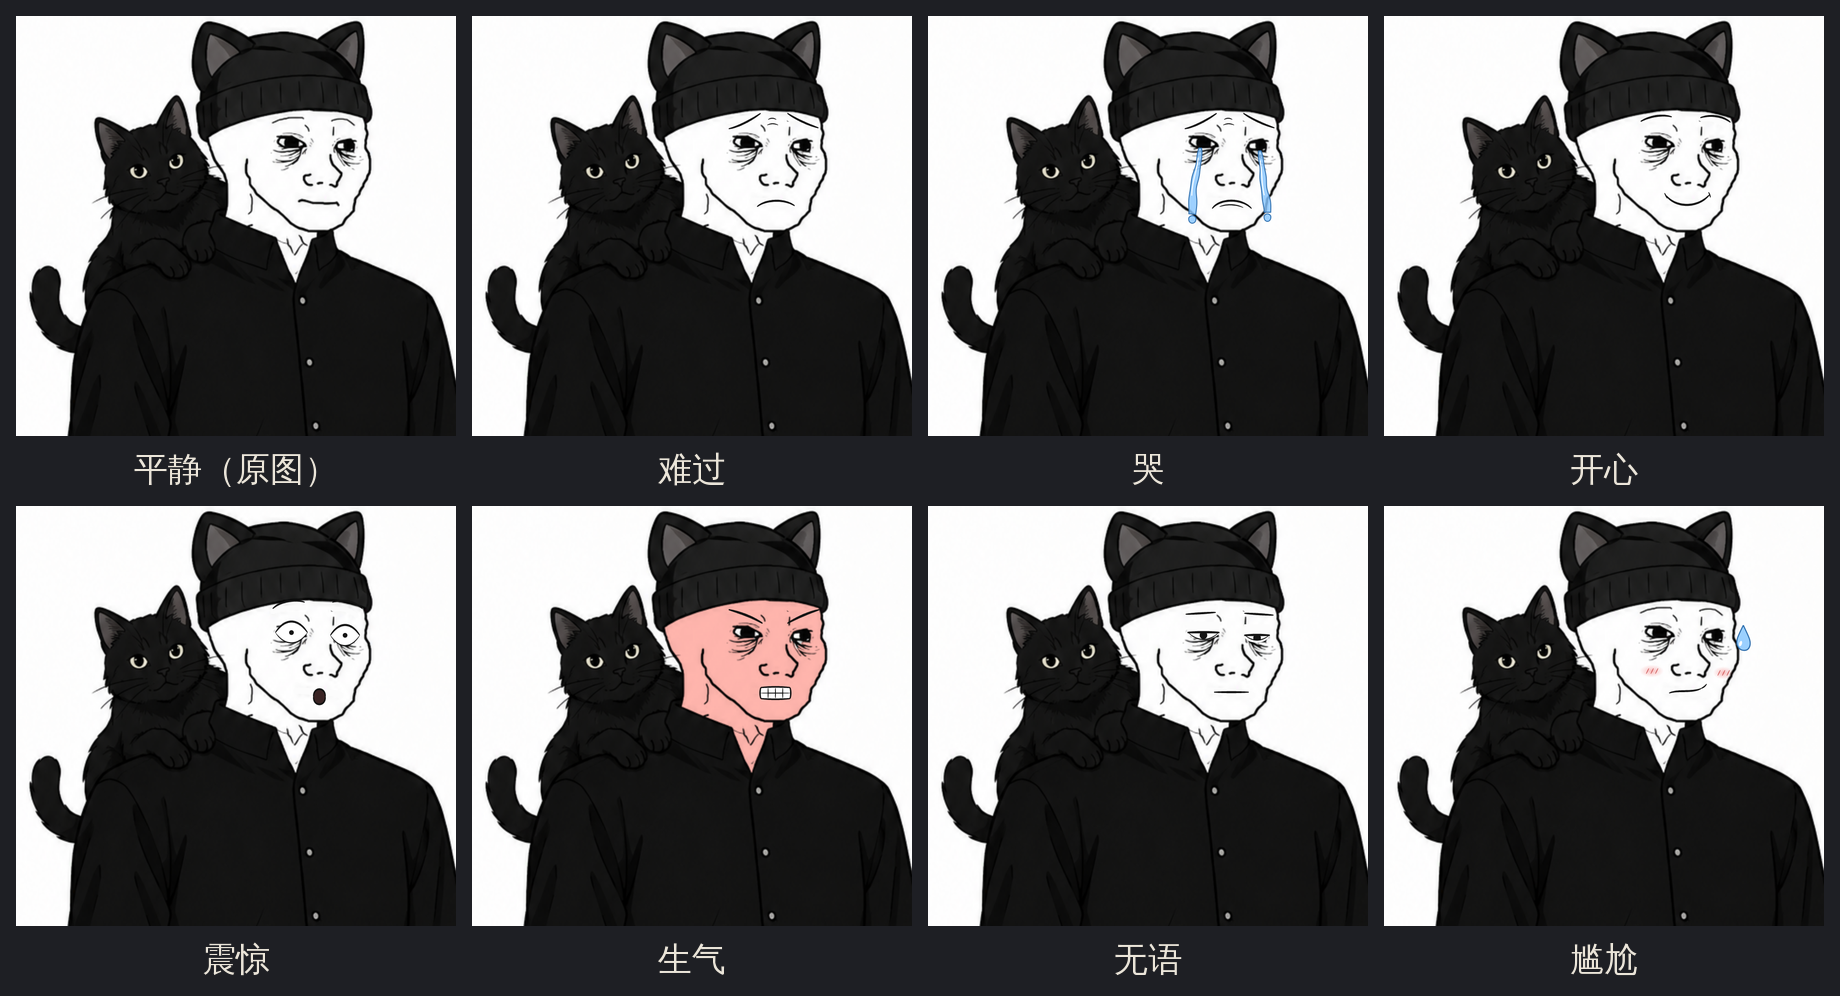
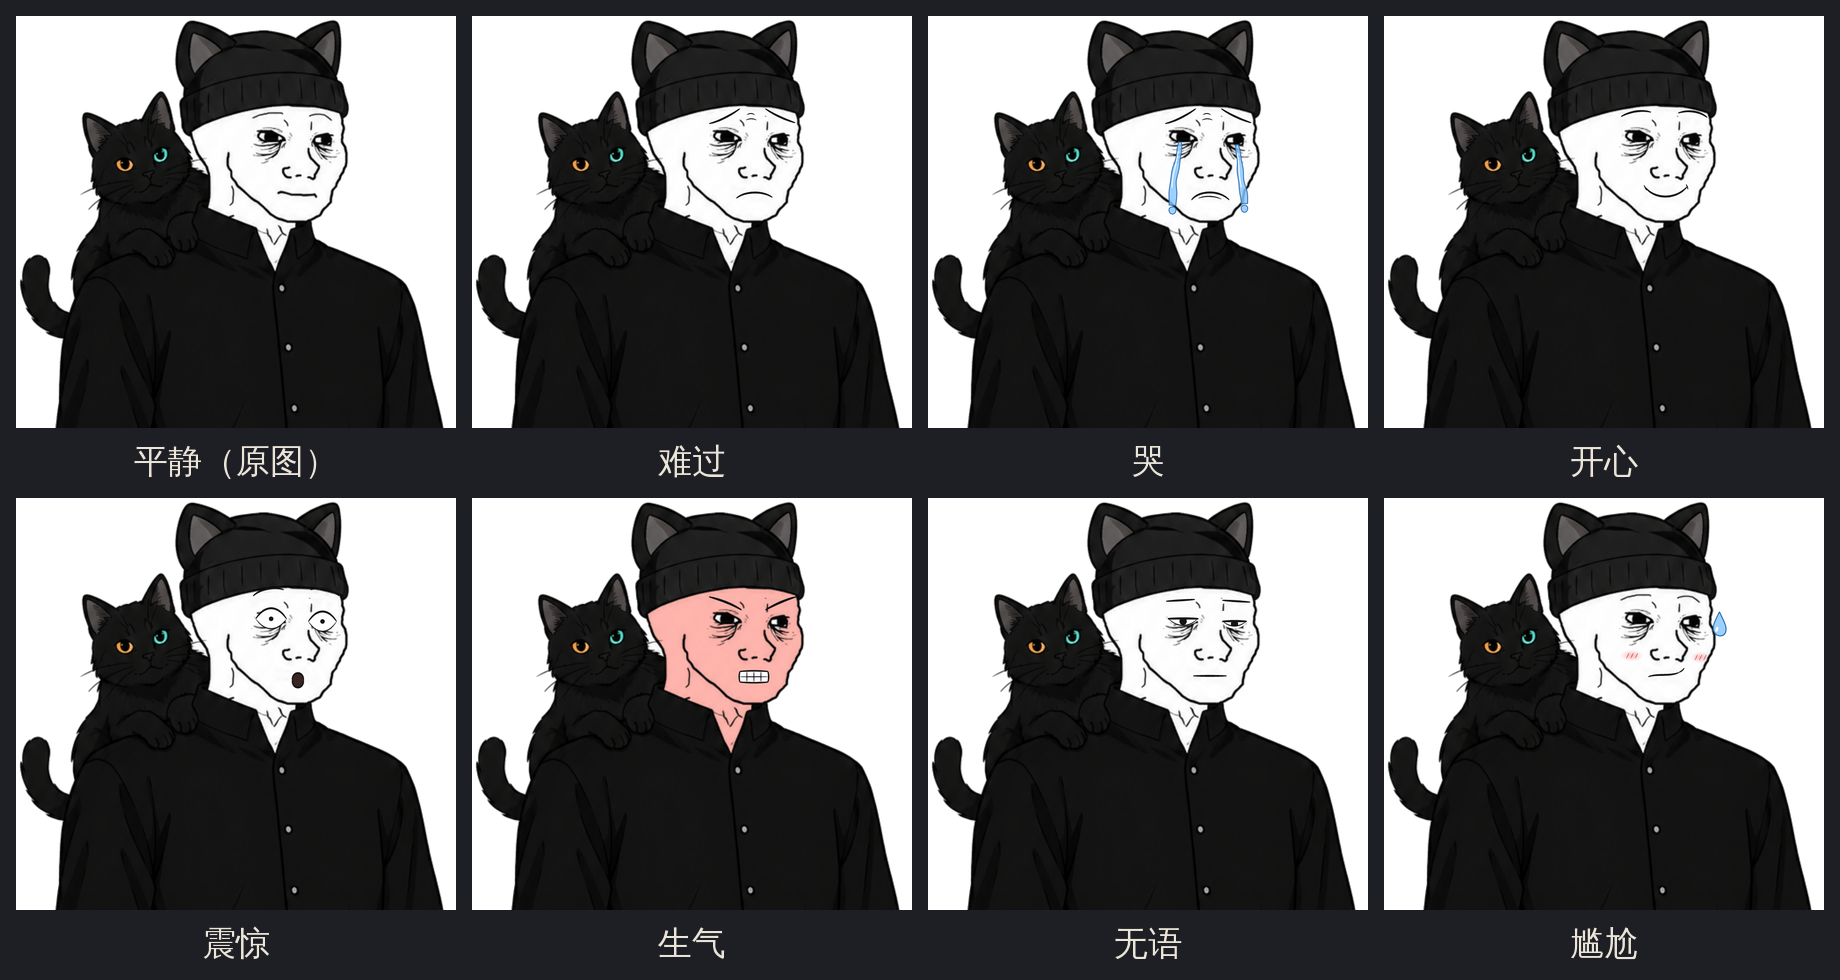
Wojak cast: the channel owner's 18 characters, brand cat eyes on the protagonist
- characters/cast: 12 office coworkers and 6 young men cut out of the two
  character sheets the channel owner sent (sources kept in cast/sources)
- tools/wojak/cut_sheet.py: cut each character from its grid cell, with a
  wall along the panel bottom so white hands and shirts are not eaten as
  background, and --bottom-only to drop the written labels
- characters/hero/base.png: the protagonist with the cat's eyes recoloured
  orange (screen left) and teal (screen right); all 8 expressions redone
  on it (tools/wojak/cat_eyes.py)
- removed the AI-generated candidates; the channel owner wants only the
  characters they provide, and the protagonist keeps his outfit

Claude-Session: https://claude.ai/code/session_01RCzNpWq88pKqMjsJAgojmc

diff --git a/tools/wojak/expressions.html b/tools/wojak/expressions.html
@@ -1,5 +1,5 @@
 <!doctype html><html><head><meta charset="utf-8"></head><body style="margin:0">
-<!-- 主人公的表情：在原图 characters/hero/ref.png 上擦掉眉毛、眼睛、嘴，再画新的。
+<!-- 主人公的表情：在底图 characters/hero/base.png（原图 ref.png 换了猫眼颜色）上擦掉眉毛、眼睛、嘴，再画新的。
      下面的坐标都是逐像素量过的原图位置（1024×1536），只对这张原图有效。用 make_expressions.cjs 出图。 -->
 <canvas id="c"></canvas>
 <script>

diff --git a/tools/wojak/cut_sheet.py b/tools/wojak/cut_sheet.py
@@ -1,0 +1,77 @@
+"""从一张多人设定图里把每个角色抠出来（透明底 PNG）。
+
+    python3 -I cut_sheet.py <设定图.png> <输出目录> [--bottom-only] <名字:x0:x1:y0:y1> ... [wall:x0:y0:x1:y1 ...]
+
+每个角色是一块被切平了底边的半身像，x0–x1、y0–y1 是它所在的格子。
+- 背景：从图的四边往里找连着的、颜色跟背景差不多的像素。
+- 每块的底边（和左右被切平的边）先“砌墙”，免得浅色衣服顺着切口被当成背景。
+- 字和小碎块按面积去掉；--bottom-only 时只留碰到底边的部分（设定图上写了字的用这个）。
+"""
+import sys, os
+import numpy as np
+from PIL import Image
+from scipy import ndimage
+
+src, out = sys.argv[1], sys.argv[2]
+args = sys.argv[3:]; BOTTOM_ONLY = '--bottom-only' in args; args = [a for a in args if a != '--bottom-only']
+panels = [(q[0], *map(int, q[1:])) for q in (p.split(':') for p in args) if q[0] != 'wall']
+extra = [tuple(map(int, q[1:])) for q in (p.split(':') for p in args) if q[0] == 'wall']   # wall:x0:y0:x1:y1 手动砌的墙（一条线段）
+os.makedirs(out, exist_ok=True)
+im = np.asarray(Image.open(src).convert('RGB')).astype(np.float32)
+H, W, _ = im.shape
+border = np.concatenate([im[:4].reshape(-1, 3), im[-4:].reshape(-1, 3), im[:, :4].reshape(-1, 3), im[:, -4:].reshape(-1, 3)])
+BG = np.median(border, axis=0); print('背景色', BG)
+close = np.abs(im - BG).max(2) <= 6                         # 背景很均匀；放宽了浅色衣服、白皮肤会被当成背景
+
+def flood(cand):
+    lab, _ = ndimage.label(cand)
+    edge = np.unique(np.concatenate([lab[0], lab[-1], lab[:, 0], lab[:, -1]])); edge = edge[edge > 0]
+    return np.isin(lab, edge)
+
+bg0 = flood(close)
+lab0, n0 = ndimage.label(~bg0, structure=np.ones((3, 3)))
+size0 = ndimage.sum(~bg0, lab0, range(1, n0 + 1))
+big0 = np.isin(lab0, [i + 1 for i, s in enumerate(size0) if s > 1500])
+# 墙：每块底边一条 8 行宽的带子（底边常有一道浅色细线，背景会顺着它横着流进白色的手、衬衫）；左右被切平的边也砌上
+cand = close.copy(); walls = np.zeros_like(close)
+info = []
+for name, x0, x1, gy0, gy1 in panels:
+    m = big0[gy0:gy1, x0:x1]; ys = np.nonzero(m.any(1))[0]; yb = ys.max() + gy0
+    cols = np.nonzero(m[yb - gy0 - 3:yb - gy0 + 1].any(0))[0] + x0; xa, xb = cols.min(), cols.max()
+    walls[yb - 5:yb + 3, xa - 2:xb + 3] = True
+    for xe in (xa, xb):                                       # 竖直切边：从底往上，这一列一直有图的那一段
+        y = yb
+        while y > gy0 and big0[y, xe]: y -= 1
+        if yb - y > 20: walls[y:yb + 1, max(0, xe - 2 if xe == xa else xe + 1):xe + (0 if xe == xa else 3)] = True
+    info.append((name, x0, x1, gy0, yb))
+for x0_, y0_, x1_, y1_ in extra:
+    for t in np.linspace(0, 1, 2 * max(abs(x1_ - x0_), abs(y1_ - y0_)) + 1):
+        x, y = int(round(x0_ + (x1_ - x0_) * t)), int(round(y0_ + (y1_ - y0_) * t)); walls[y - 1:y + 2, x - 1:x + 2] = True
+cand &= ~walls
+bg = flood(cand)
+# 墙本身：颜色像背景、旁边又是背景的，也算背景（不留一道细线）
+nb = ndimage.binary_dilation(bg) & walls & close
+bg |= nb
+fg = ~bg
+lab, n = ndimage.label(fg, structure=np.ones((3, 3)))
+sizes = ndimage.sum(fg, lab, range(1, n + 1))
+keep = np.isin(lab, [i + 1 for i, s in enumerate(sizes) if s > 1500])
+lum = im.min(2); bgl = BG.min()
+for name, x0, x1, gy0, yb in info:
+    yb -= 6                                                   # 底边那条墙带子整个切掉
+    k = keep[gy0:yb + 1, x0:x1]
+    if BOTTOM_ONLY:                                           # 只留碰到底边的（去掉写在旁边的字）
+        lb, _ = ndimage.label(k, structure=np.ones((3, 3))); k = np.isin(lb, np.unique(lb[-3:])[1:])
+    ys, xs = np.nonzero(k); ya, yz, xa_, xb_ = max(0, ys.min() - 4), yb + 1 - gy0, max(0, xs.min() - 4), min(x1 - x0, xs.max() + 5)
+    sl = (slice(gy0 + ya, gy0 + yz), slice(x0 + xa_, x0 + xb_))
+    sub, kk, bgs, l = im[sl], k[ya:yz, xa_:xb_], bg[sl], lum[sl]
+    # 边缘一圈（挨着背景的）：按“墨 + 背景色”的混合反推不透明度
+    edge = kk & ndimage.binary_dilation(bgs & ~kk, iterations=2)
+    alpha = kk.astype(np.float32)
+    alpha[edge] = np.clip((bgl - l[edge]) / (bgl - 70), 0, 1)
+    rgb = sub.copy()
+    with np.errstate(divide='ignore', invalid='ignore'):
+        un = (sub - (1 - alpha[..., None]) * BG) / np.maximum(alpha[..., None], 1e-3)
+    rgb[edge] = np.clip(un[edge], 0, 255); rgb[alpha == 0] = 0
+    Image.fromarray(np.dstack([rgb, alpha * 255]).astype(np.uint8), 'RGBA').save(os.path.join(out, name + '.png'))
+    print(name, '格子', x0, x1, gy0, '底边', yb, '大小', rgb.shape[1], 'x', rgb.shape[0])

diff --git a/tools/wojak/cat_eyes.py b/tools/wojak/cat_eyes.py
@@ -1,0 +1,27 @@
+"""把主人公肩上那只猫的眼睛换成品牌色：画面左边那只橙、右边那只青（跟以前的小黑一样）。
+
+    python3 -I tools/wojak/cat_eyes.py characters/hero/ref.png characters/hero/base.png
+
+原图的猫眼是米白色的一圈（中间是黑瞳孔，有一点白高光）。按亮度上色：米白的地方变成品牌色，
+最亮的高光还是白的，黑瞳孔不变。眼睛的位置是在原图上量的（1024×1536）。
+"""
+import sys
+import numpy as np
+from PIL import Image
+
+ORANGE, TEAL = np.array([242, 161, 74]), np.array([79, 214, 196])
+EYES = [((353.5, 190.5), (11, 8), ORANGE), ((394, 178.5), (9.5, 10), TEAL)]   # 中心、半径（多留 1.5 像素）、颜色
+im = np.asarray(Image.open(sys.argv[1]).convert('RGB')).astype(np.float32)
+H, W, _ = im.shape
+yy, xx = np.mgrid[0:H, 0:W]
+L = im.mean(2)
+out = im.copy()
+for (cx, cy), (rx, ry), col in EYES:
+    m = ((xx - cx) / rx) ** 2 + ((yy - cy) / ry) ** 2 <= 1
+    t = np.clip(L / 205, 0, 1)[..., None]                       # 米白（约 200）→ 满色；暗的边按比例
+    c = col * t
+    w = np.clip((L - 228) / 25, 0, 1)[..., None]                # 高光（比米白更亮的）留白
+    c = c * (1 - w) + 255 * w
+    out[m] = c[m]
+Image.fromarray(np.clip(out, 0, 255).astype(np.uint8)).save(sys.argv[2])
+print('写好了', sys.argv[2])

diff --git a/characters/README.md b/characters/README.md
@@ -1,8 +1,15 @@
 # 角色素材（Wojak 格式，No.51 起）
 
+角色都用频道主给的图，不用自己生成的形象。
+
 ## 主人公 `hero/`
-- `ref.png`：频道主给的原图（1024×1536，白底）。他戴黑色毛线猫耳帽，一只黑猫趴在右肩（画面左边），穿黑衬衫、黑阔腿裤。
+- `ref.png`：频道主给的原图（1024×1536，白底）。
+  - 他戴黑色毛线猫耳帽，穿黑衬衫、黑阔腿裤。一只黑猫趴在他右肩（画面左边）。
+  - **衣服不换**，一直穿这一身。
+- `base.png`：原图只换了猫眼颜色，画面左边那只眼睛橙、右边那只青，跟以前的品牌黑猫小黑一样。
+  - 用 `tools/wojak/cat_eyes.py` 做，表情都在这张上改。
 - `expr/*.png`：8 个表情，透明底，原图的 2 倍大（2048×3072 抠图后裁成 1002×2992）。
+  - 都是在 base.png 上改眉毛、眼睛、嘴做出来的，保证一直是同一个人。
 
   | 文件 | 表情 | 改了什么 |
   |---|---|---|
@@ -16,28 +23,62 @@
   | `awkward` | 尴尬 | 脸红，太阳穴挂一滴汗，嘴角歪着笑 |
 - `表情一览.png`：8 个表情排在一起。
 
-**怎么做的**：在原图上把眉毛、眼睛、嘴擦掉（用脸的底色 `#fcfcfc`），再画上新的。
-- 线条两头细、中间粗，跟原图的墨线一样。
-- 原图五官的坐标是逐像素量出来的，写在 `tools/wojak/expressions.html` 里，只对这张原图有效。
-- 最后用 `tools/wojak/cutout.py` 抠掉白底：从画面四边往里找连着的白色当背景，所以脸、脖子这些被线围住的白色不会被抠掉。
+**怎么做的**
+1. 在底图上把眉毛、眼睛、嘴擦掉（用脸的底色 `#fcfcfc`），再画上新的。线条两头细、中间粗，跟原图的墨线一样。
+2. 原图五官的坐标是逐像素量出来的，写在 `tools/wojak/expressions.html` 里，只对这张原图有效。
+3. 用 `tools/wojak/cutout.py` 抠掉白底：从画面四边往里找连着的白色当背景，所以脸、脖子这些被线围住的白色不会被抠掉。
 
 ```
-NODE_PATH=$(npm root -g) node tools/wojak/make_expressions.cjs characters/hero/ref.png characters/hero/expr          # 全部
-NODE_PATH=$(npm root -g) node tools/wojak/make_expressions.cjs characters/hero/ref.png characters/hero/expr cry      # 只出一个
+python3 -I tools/wojak/cat_eyes.py characters/hero/ref.png characters/hero/base.png
+NODE_PATH=$(npm root -g) node tools/wojak/make_expressions.cjs characters/hero/base.png characters/hero/expr          # 全部表情
+NODE_PATH=$(npm root -g) node tools/wojak/make_expressions.cjs characters/hero/base.png characters/hero/expr cry      # 只出一个
 ```
 
-## 其他角色 `candidates/`（候选，频道主还没选）
-用 `tools/wojak/gen_images.py` 生成（MiniMax image-01），把主人公原图当角色参考，提示词里写清楚经典 Wojak 的脸（眼袋皱纹、细墨线）。
-- 1 同事（橙卫衣）、2 老板 A（光头眼镜）、3 老板 B（戴帽子）、4–6 女生 A/B/C。
-- 7–10 是主人公换装：AI 换装时脸和帽子会有点走样，所以主人公平时穿原图那一身。
-- `一览.png`：这 10 张排在一起。
+## 其他角色 `cast/`
+从频道主给的两张设定图（`cast/sources/`）里一个个抠出来的半身像，透明底，底边是平的，放的时候贴着画框底边。
 
-选定以后：
-1. 用 `python3 -I tools/wojak/cutout.py <图> <输出.png>` 抠图，放进 `characters/<角色名>/`。
-2. 表情也照主人公的办法改，坐标要重新量。
+| 文件 | 设定（设定图上写的） |
+|---|---|
+| `女同事-行政` | 说话温柔，喜欢八卦，经常找你帮忙 |
+| `女同事-技术` | 高冷，不爱说话，但其实很靠谱 |
+| `女同事-运营` | 开朗活泼，喜欢自拍，经常带奶茶 |
+| `领导-上司` | 有点油腻，爱吹牛，只会开会 |
+| `同事-老哥` | 玩游戏很厉害，话多，但人不错 |
+| `女同事-设计` | 有点文艺，喜欢拍照，审美很好 |
+| `上级-主管` | 比较严厉，事多，但也会帮忙 |
+| `同事-实习生` | 年轻，懂点技术，还挺努力 |
+| `女同事-财务` | 认真负责，不太爱说话，但很细心 |
+| `同事-技术大佬` | 很少说话，但技术很牛，话少的可怕 |
+| `女同事-市场` | 甜美系，喜欢聊天，有点小作 |
+| `大领导` | 更油腻，只会指挥，很少出现 |
+| `卫衣帽子男`、`军人`、`灰发男`、`蓝卫衣男`、`眼镜男`、`背心男` | 第二张图，没写设定，可以当朋友、路人、室友 |
+
+- `一览.png`：18 个人排在一起。
+- **原图不大**：第一张图每人约 300 像素宽，第二张约 400 像素宽。放大到半个画面时会有点虚。频道主如果有更大的原图，换上重新抠就行。
+- 设计、市场两个人的头发外面有一圈白边，是原画自带的，留着了。
+
+**抠图**：用 `tools/wojak/cut_sheet.py`。
+- 每个角色给出它所在的格子。
+- 底边会砌一道 8 行宽的“墙”再切掉：格子底边常有一道浅色细线，不砌墙的话，背景会顺着它流进白色的手和衬衫。
+- `--bottom-only` 只留碰到底边的部分，用来去掉设定图上写的字。
+- 某处漏了，可以用 `wall:x0:y0:x1:y1` 手动补一道墙（`背心男` 的左臂就是这样补的）。
+
+```
+R1=0:432; R2=432:800; R3=800:1199
+python3 -I tools/wojak/cut_sheet.py characters/cast/sources/办公室同事.png <输出目录> --bottom-only \
+  行政:55:335:$R1 技术:335:645:$R1 运营:645:944:$R1 领导:944:1312:$R1 老哥:0:318:$R2 设计:318:620:$R2 \
+  主管:620:944:$R2 实习生:944:1312:$R2 财务:0:280:$R3 技术大佬:280:602:$R3 市场:602:918:$R3 大领导:918:1312:$R3
+python3 -I tools/wojak/cut_sheet.py characters/cast/sources/男生六人.png <输出目录> \
+  卫衣帽子男:0:406:0:626 军人:406:853:0:626 灰发男:853:1254:0:626 蓝卫衣男:0:404:626:1254 眼镜男:404:802:626:1254 背心男:802:1254:626:1254 \
+  wall:805:980:805:1214
+```
+
+其他角色要换表情时，照主人公的办法改五官，坐标要重新量。
 
 ## 放进视频的样子
 `样子_办公室.png`：
 - 竖屏 1080×1920，照片画框在中间（y 470–1430），上方是封面钩子。
 - 人物露出半身站在照片前面。说出口的话用白色椭圆框，心里想的用淡蓝泡泡。
 - 水印“@黑猫不说话”保留，没有进度条（`meta.json` 写 `"progress": false`）。
+
+`tools/wojak/gen_images.py`（MiniMax 生图）也还留着，但频道主说角色不用自己生成的。以后要生成背景之类的东西时可以用。

diff --git a/CLAUDE.md b/CLAUDE.md
@@ -11,11 +11,14 @@
 频道主决定从下一期起换成这种。画面、素材、对白、配音的做法沿用 No.50（见下一节），**不同的地方**：
 - **角色都是 Wojak**，不再是黑猫。素材都在 `characters/`，见 `characters/README.md`。
   - **主人公**：用频道主给的原图 `characters/hero/ref.png`。他戴黑色毛线猫耳帽，一只黑猫趴在肩上，穿一身黑衣服。
-    - 表情在 `characters/hero/expr/`（透明底）：平静、难过、哭、开心、震惊、生气、无语、尴尬。是在原图上改五官做出来的，保证一直是同一个人。
+    - **衣服不换**（频道主定的）。
+    - 猫眼换成了品牌色：画面左边橙、右边青。换好的底图是 `characters/hero/base.png`。
+    - 表情在 `characters/hero/expr/`（透明底）：平静、难过、哭、开心、震惊、生气、无语、尴尬。是在底图上改五官做出来的，保证一直是同一个人。
     - 要加表情：在 `tools/wojak/expressions.html` 的 `EXPR` 里加一项，再用 `tools/wojak/make_expressions.cjs` 出图。
-  - **其他角色**：和主人公同一种 Wojak 画风。用 `tools/wojak/gen_images.py`（MiniMax 生图）生成，挑最像的。
-    - 候选在 `characters/candidates/`，**频道主还没选定**。
-  - **换装**：AI 生成时脸会有点走样，所以主人公平时就穿原图那一身。
+  - **其他角色**：只用频道主给的形象，**不用自己生成的**。都在 `characters/cast/`，一共 18 个人：
+    - 12 个办公室同事，设定图上写了性格，比如行政、技术、运营、领导、老哥、主管、实习生、财务、大领导……；
+    - 6 个男生，可以当朋友、路人、室友。
+    - 名字和性格见 `characters/README.md`。频道主以后可能再发新的。
   - 频道主说不用管版权风险，网上的 Wojak 形象也可以用。
 - **内容是叙事**：用两个或多个人物的对话，演一件日常小事，比如工作、学习、跟朋友相处、旅游，目的是引起观众共鸣。
   - 不一定要讲心理学知识，所以不用再套“是什么、会怎样、怎么来的、怎么办”。
